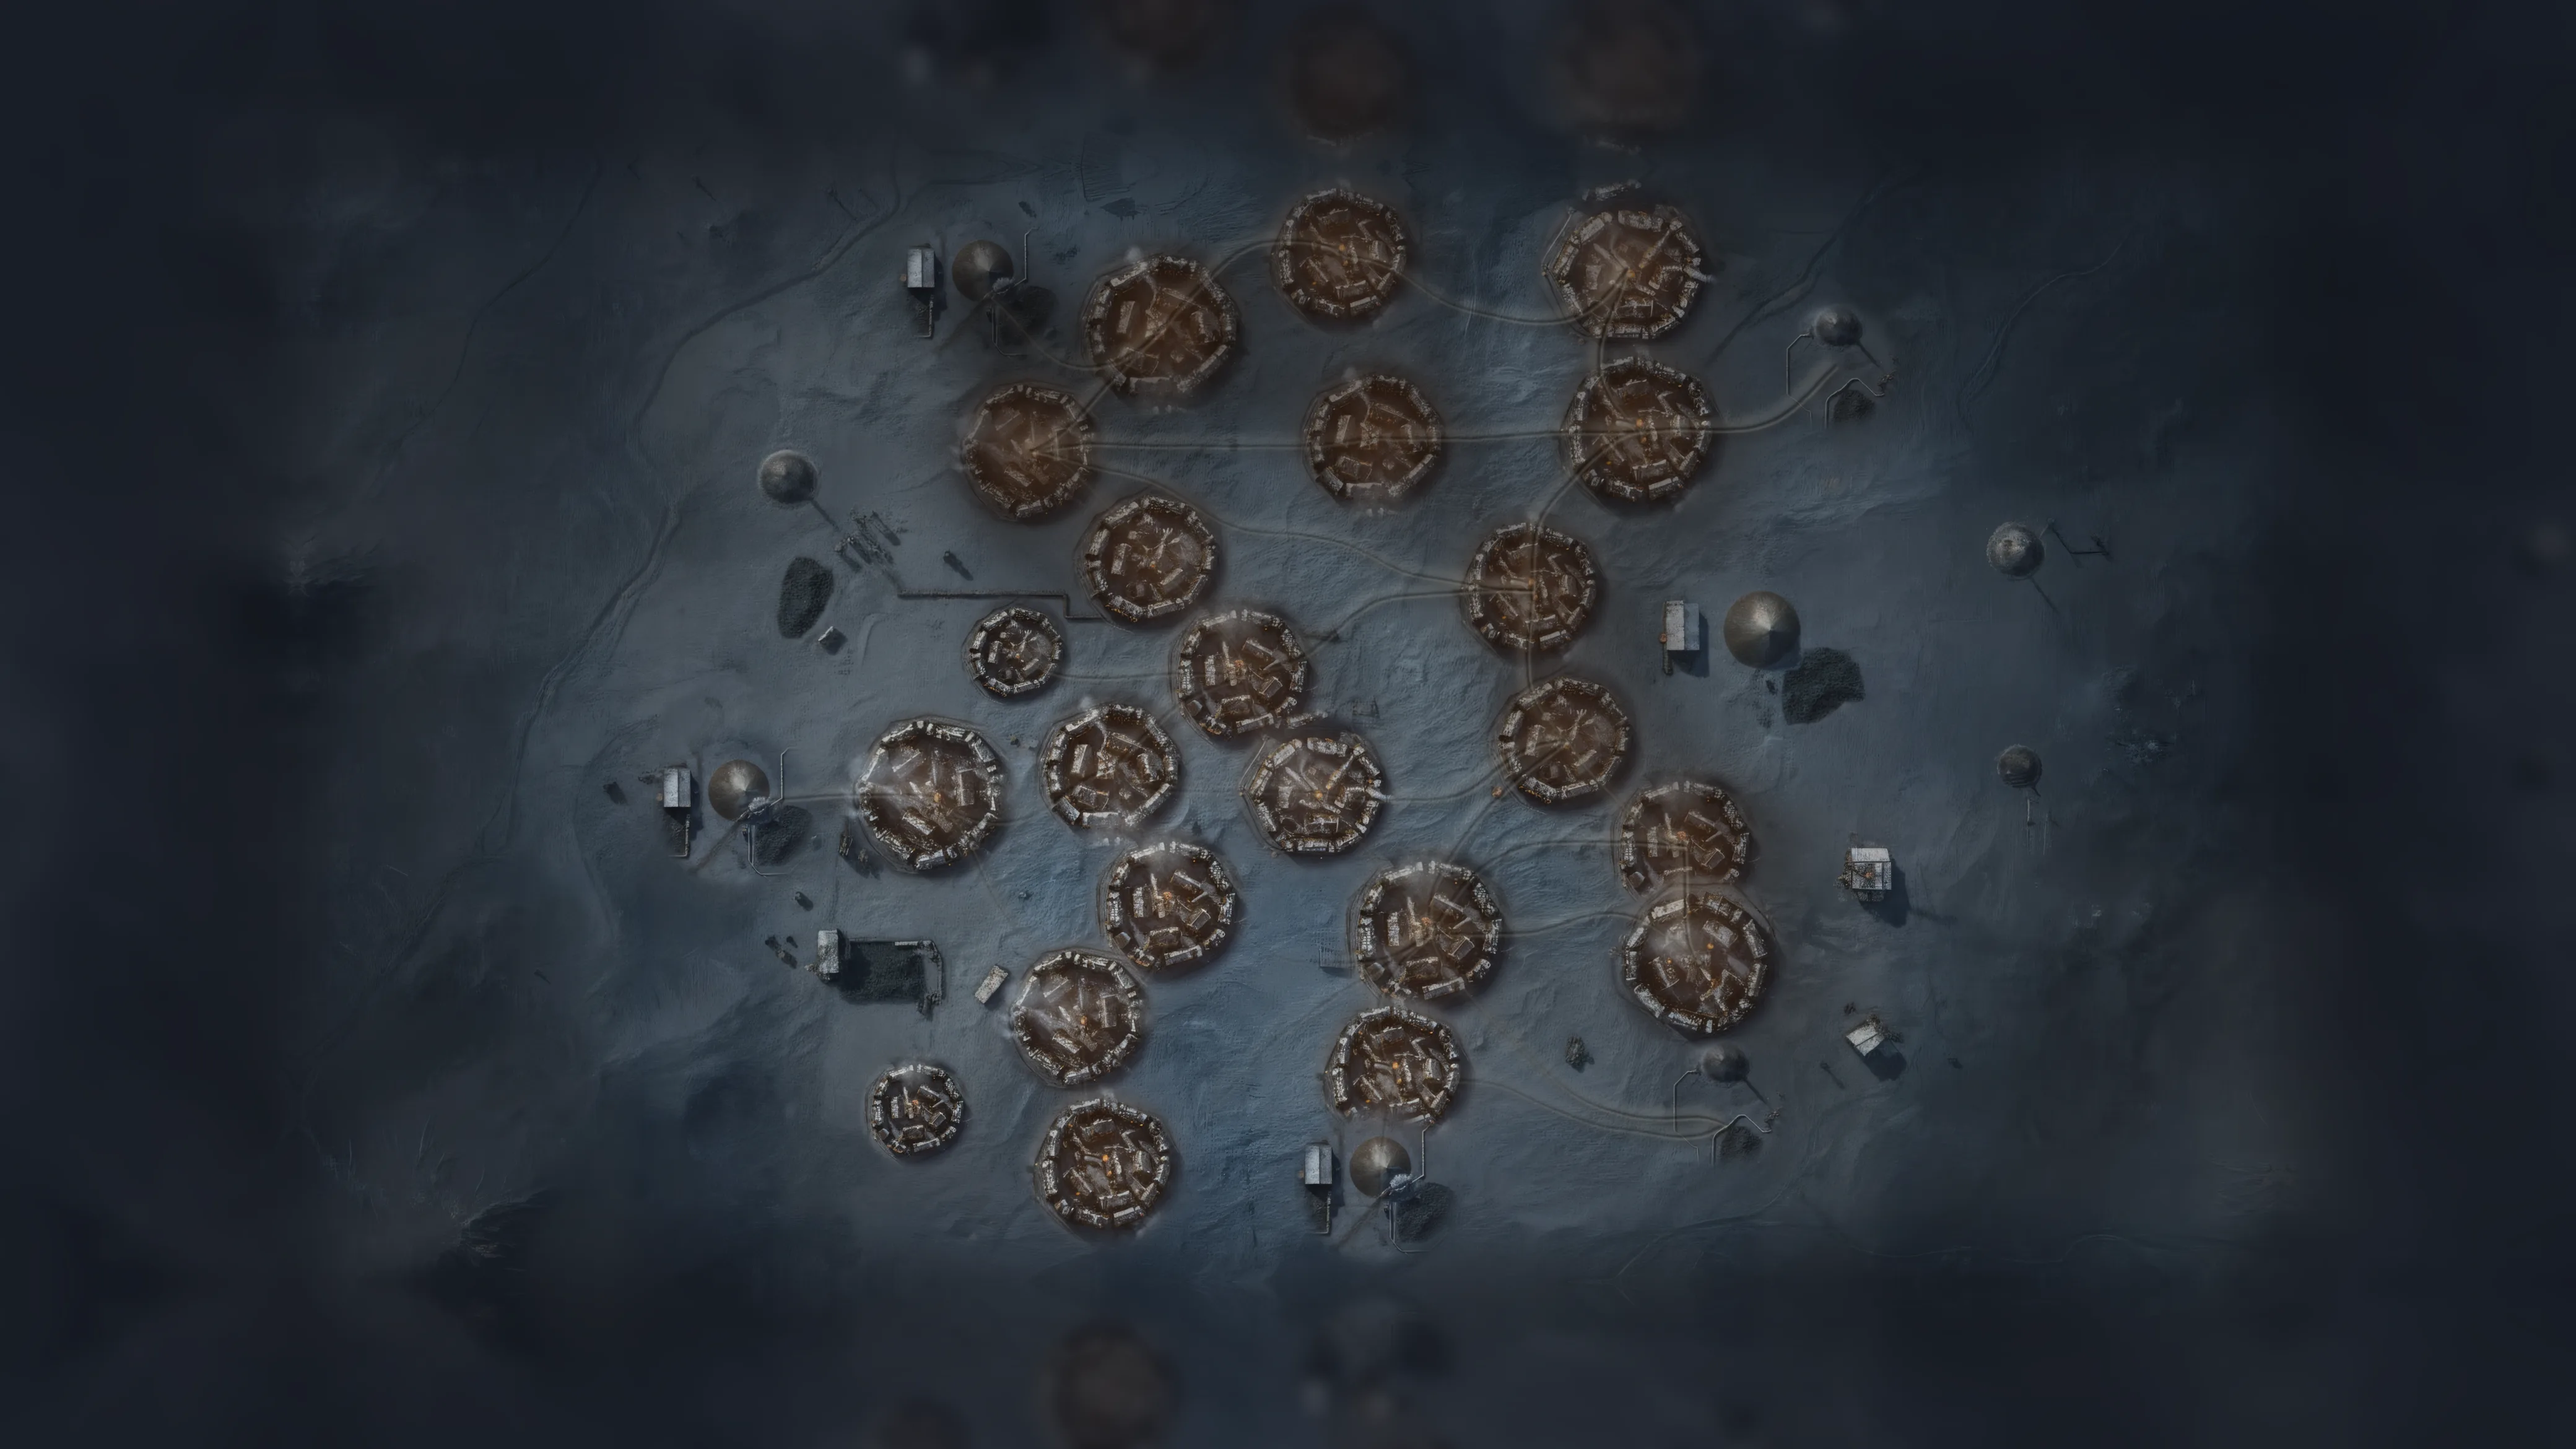
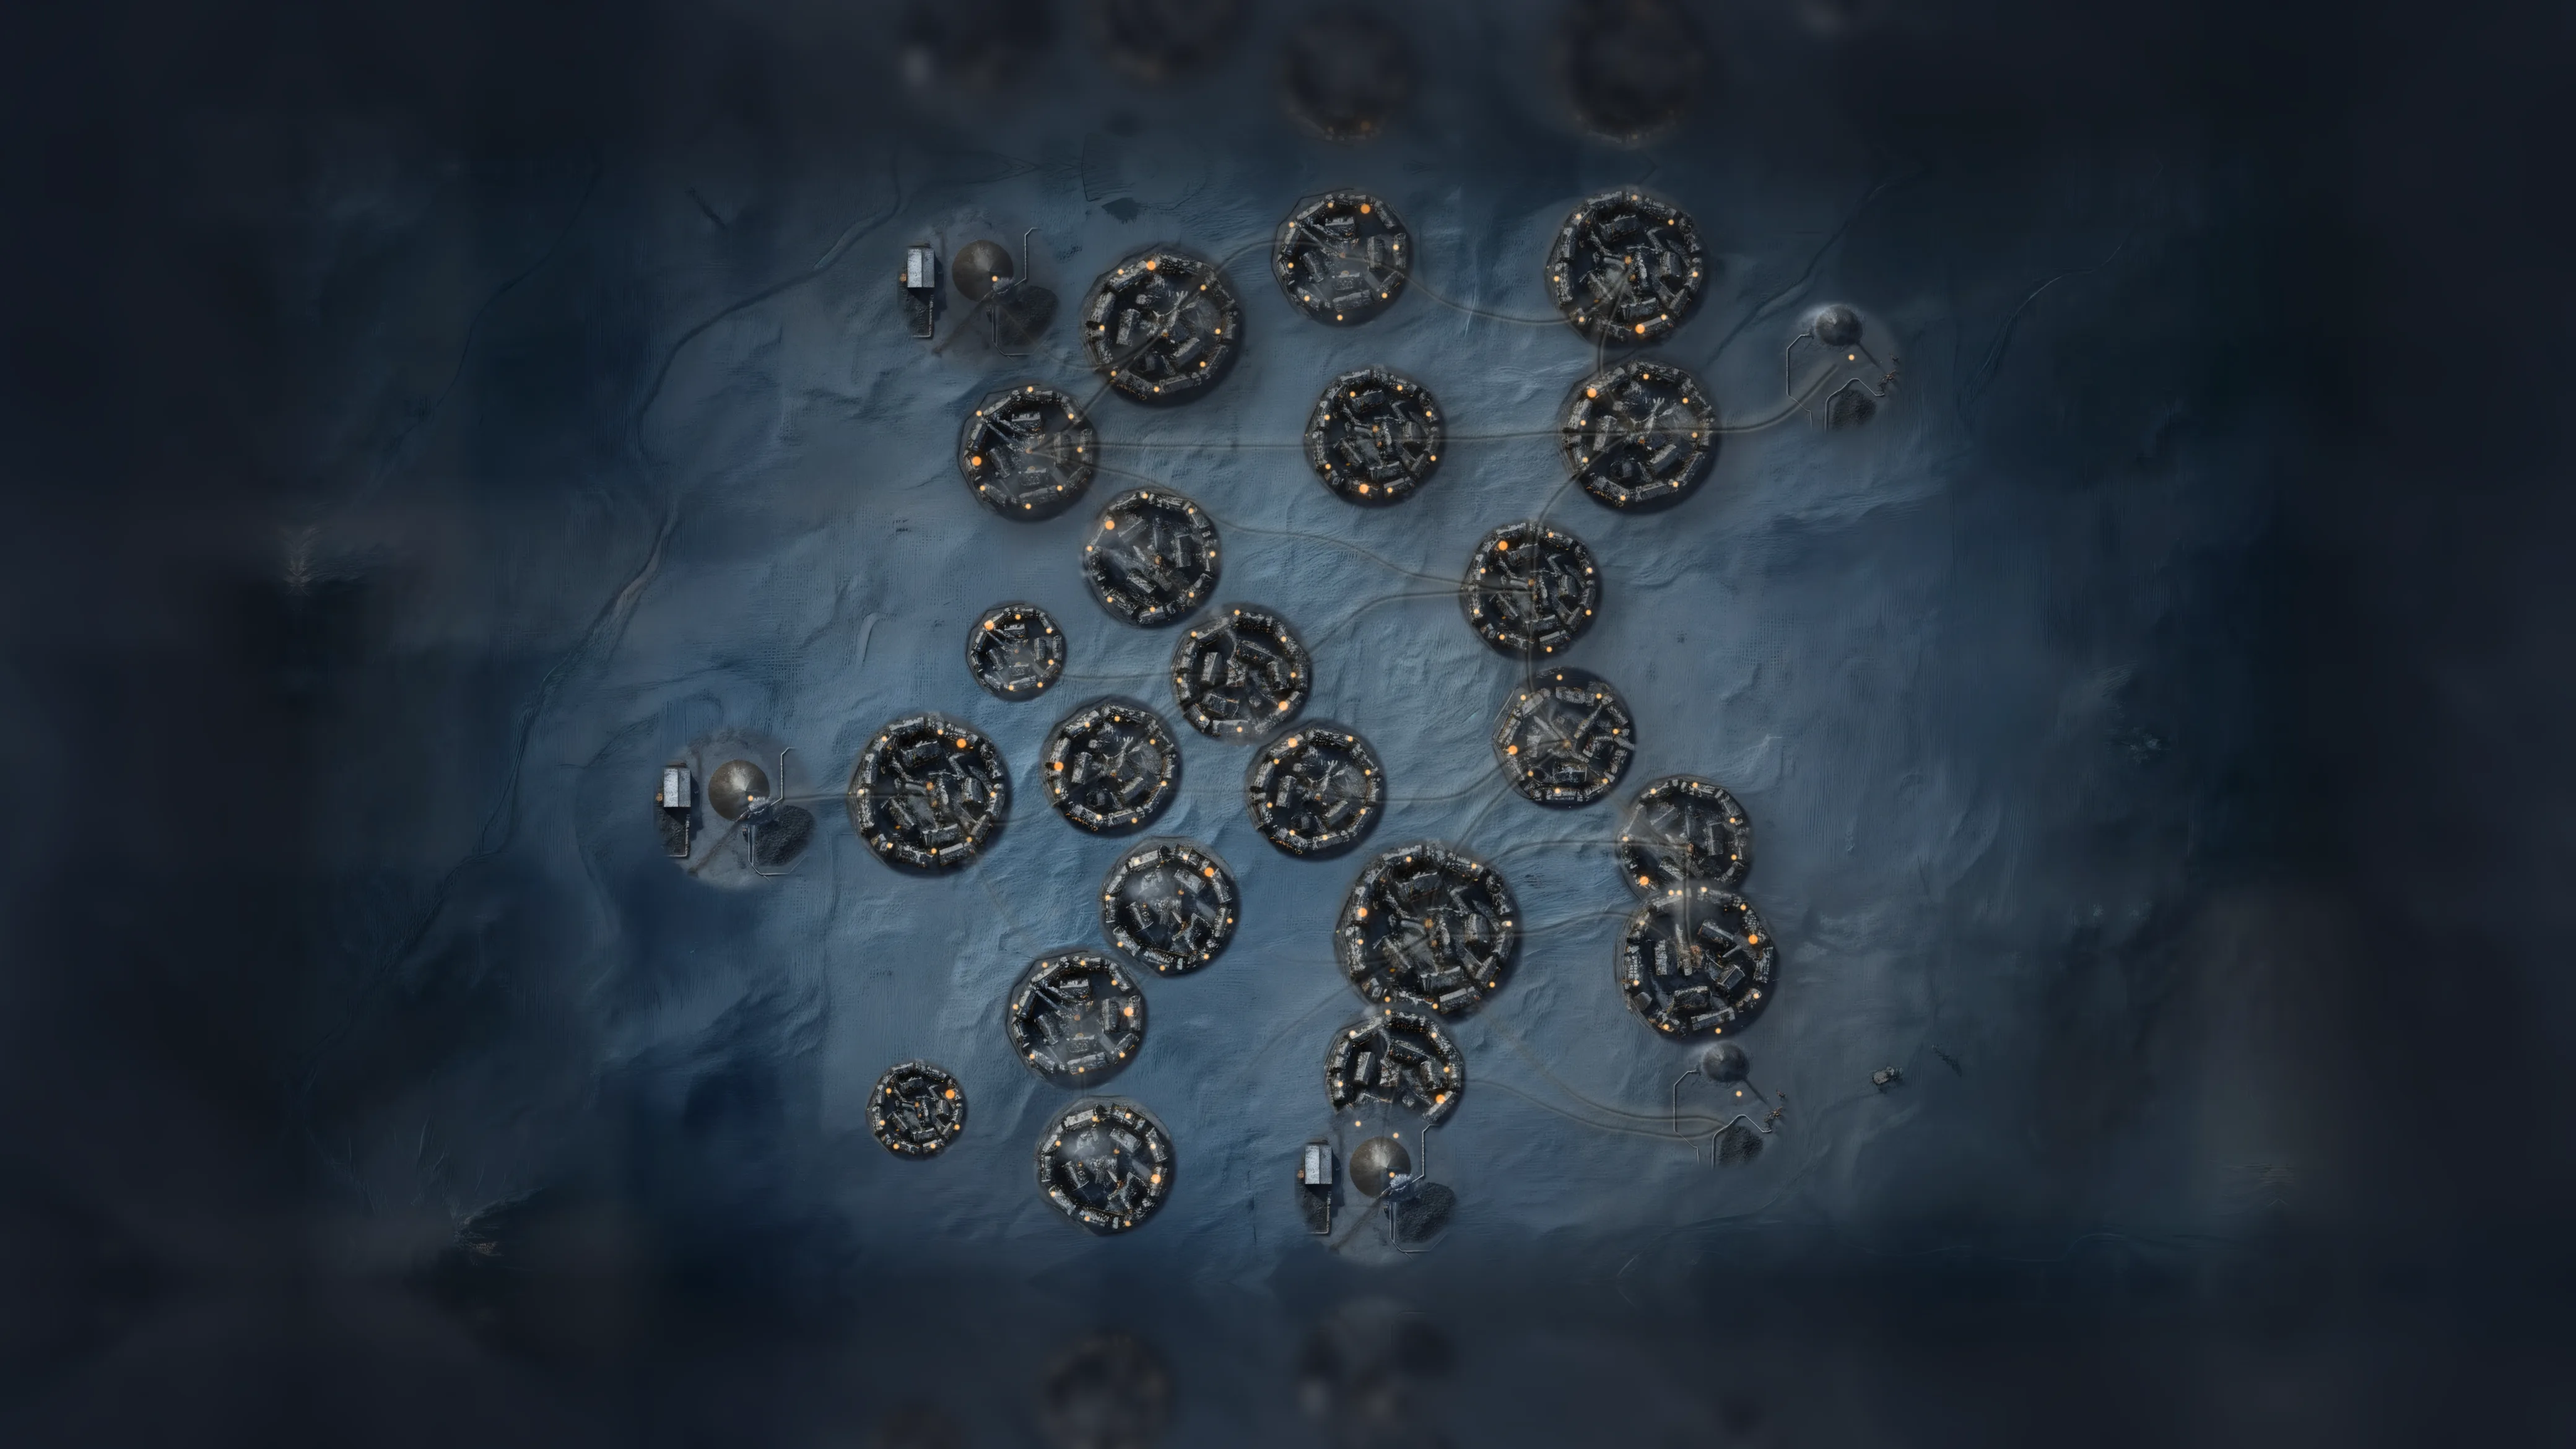
feat(assets): size the rings to their towns, light their lamps
After a design review of the frozen city: the snowfield emptied of
the sheds and pipes that read as things to play, the walls held under
the cards' own light, a ring sized to its town's cards and never the
same as a neighbour's, and the rail era lit by lamps rather than washed
brown.

diff --git a/tools/map/frost-city.py b/tools/map/frost-city.py
@@ -4,19 +4,21 @@
 A model asked for a city paints one where it likes; the board needs a
 settlement under every town and nowhere else. So the city is put together
 by hand: ring settlements cut from one painting and laid, each through a
-soft disc, on the wasteland of another — one under every town, a depot
-under every merchant, at the places the board shows them (places.ts). The
-rail era is the same sheet a generation on: the snow greyed, soot drifting
-down and right of every settlement, the furnaces lit inside the rings.
+soft disc, on an empty snowfield — one under every town, sized to its
+cards, a depot under every merchant, at the places the board shows them
+(places.ts). The walls are held under the cards' own light, and no two
+neighbouring towns wear the same ring. The rail era is the same sheet a
+generation on: soot on the walls, drifting down and right, and the lamps
+and furnace doors lit in every ring.
 
 Usage, from the repository root:
-  tools/map/frost-city.py <rings.jpg> <waste.jpg> <places.json> <canal.png> <rail.png>
-rings and waste are 4032x2304, as the upscaler leaves them; the paintings
+  tools/map/frost-city.py <rings.jpg> <snow.jpg> <places.json> <canal.png> <rail.png>
+rings and snow are 4032x2304, as the upscaler leaves them; the paintings
 come out at that size, for compose-canal.sh and compose-rail.sh.
 """
-import json, os, subprocess, sys, tempfile
+import json, math, os, subprocess, sys, tempfile
 
-RINGS, WASTE, PLACES, CANAL, RAIL = sys.argv[1:6]
+RINGS, SNOW, PLACES, CANAL, RAIL = sys.argv[1:6]
 W, H = 4032, 2304
 # the painting covers the 3200x1800 world in width; the height overflows, centred
 K = W / 3200
@@ -27,7 +29,14 @@ PY = lambda wy: wy * K + OY
 # rings painting at 1400 px wide — the ones standing clear of their neighbours
 VIEW = W / 1400
 RING_AT = [(290, 460), (1058, 152), (920, 85), (713, 80), (425, 665), (985, 668), (460, 103), (922, 202)]
+RING_R = 58
 DEPOT_AT = [(1032, 348, 78), (345, 262, 62)]
+# a ring's size for a town's cards: a farm's one card, two in a row, a
+# block of three or four — the houses showing round the cards every time
+SCALE = {1: 0.75, 2: 0.82, 3: 0.95, 4: 1.08}
+FARM = 0.58
+# towns closer than this are neighbours, and never wear the same ring
+NEAR = 320
 T = tempfile.mkdtemp()
 
 
@@ -35,19 +44,42 @@ def run(*a):
     subprocess.run(['magick', *map(str, a)], check=True)
 
 
-def cut(name, cx, cy, r_in, r_out):
-    """a sprite through a soft disc: whole to r_in, gone at r_out"""
+def cut(name, cx, cy, r_in, r_out, tone):
+    """a sprite through a soft disc: whole to r_in, gone at r_out; the
+    walls' highlights pressed down so no roof outshines a card"""
     R = int(r_out * VIEW) + 4
     ri, ro = r_in * VIEW, r_out * VIEW
     run(RINGS, '-crop', f'{2 * R}x{2 * R}+{int(cx * VIEW) - R}+{int(cy * VIEW) - R}', '+repage',
+        *(['-channel', 'RGB', '-function', 'polynomial', '-0.25,1.05,0', '+channel'] if tone else []),
         '(', '-size', f'{2 * R}x{2 * R}', 'xc:black', '-fill', 'white', '-draw', f'circle {R},{R} {R + (ri + ro) / 2:.1f},{R}', '-blur', f'0x{(ro - ri) / 4:.1f}', ')',
         '-alpha', 'off', '-compose', 'CopyOpacity', '-composite', f'{T}/{name}.png')
     return 2 * R
 
 
-ring_w = [cut(f'ring{i}', x, y, 58, 74) for i, (x, y) in enumerate(RING_AT)]
-depot_w = [cut(f'depot{i}', x, y, r - 22, r) for i, (x, y, r) in enumerate(DEPOT_AT)]
+ring_w = [cut(f'ring{i}', x, y, RING_R + 1, RING_R + 7, True) for i, (x, y) in enumerate(RING_AT)]
+depot_w = [cut(f'depot{i}', x, y, r - 14, r, False) for i, (x, y, r) in enumerate(DEPOT_AT)]
 p = json.load(open(PLACES))
+towns = p['towns']
+
+
+def h(s):
+    v = 7
+    for ch in s:
+        v = (v * 31 + ord(ch)) & 0xffffffff
+    return v
+
+
+# each town's ring: its own by hash, the next one along when a neighbour
+# already wears it
+worn = {}
+for t in sorted(towns, key=lambda t: t['id']):
+    near = [o['id'] for o in towns if o is not t and math.hypot(o['x'] - t['x'], o['y'] - t['y']) < NEAR]
+    n = h(t['id']) % len(RING_AT)
+    for _ in range(len(RING_AT)):
+        if all(worn.get(o) != n for o in near):
+            break
+        n = (n + 1) % len(RING_AT)
+    worn[t['id']] = n
 
 
 def lay(cmd, sprite, width, k, wx, wy):
@@ -55,35 +87,55 @@ def lay(cmd, sprite, width, k, wx, wy):
     cmd += ['(', f'{T}/{sprite}.png', '-resize', f'{k * 100:.0f}%', ')', '-geometry', f'+{PX(wx) - w / 2:.0f}+{PY(wy) - w / 2:.0f}', '-compose', 'over', '-composite']
 
 
-cmd = [WASTE, '-gravity', 'NorthWest']
+def scale(t):
+    return FARM if t['farm'] else SCALE[min(4, max(1, t['slots']))]
+
+
+cmd = [SNOW, '-gravity', 'NorthWest']
 # the farms first, then the towns from the top of the sheet down
-for i, t in enumerate(sorted(p['towns'], key=lambda t: (not t['farm'], t['y']))):
-    k = 0.58 if t['farm'] else (0.92 if t['slots'] >= 3 else 0.82)
-    n = (sum(map(ord, t['id'])) + i) % len(RING_AT)
-    lay(cmd, f'ring{n}', ring_w[n], k, t['x'], t['y'])
+for t in sorted(towns, key=lambda t: (not t['farm'], t['y'])):
+    n = worn[t['id']]
+    lay(cmd, f'ring{n}', ring_w[n], scale(t), t['x'], t['y'])
 for i, m in enumerate(p['merchants']):
     n = i % len(DEPOT_AT)
     lay(cmd, f'depot{n}', depot_w[n], 0.8, m['x'], m['y'])
 run(*cmd, CANAL)
 
-# the rail era: soot down and right of every place, the furnaces lit in the rings
-soot, glow = [], []
-for t in p['towns']:
+# the rail era: soot on the walls of every ring, drifting down and right,
+# and the lamps lit — a furnace door at the inner edge of the houses and a
+# few windows round it, never under the cards
+soot, lamps, doors = [], [], []
+for t in towns:
     x, y = PX(t['x']), PY(t['y'])
-    r, g = (120, 70) if t['farm'] else (210, 125)
-    soot.append(f'circle {x + 50:.0f},{y + 50:.0f} {x + 50 + r:.0f},{y + 50:.0f}')
-    glow.append(f'circle {x:.0f},{y:.0f} {x + g:.0f},{y:.0f}')
+    R = RING_R * VIEW * scale(t)
+    soot.append(f'circle {x + 0.25 * R:.0f},{y + 0.25 * R:.0f} {x + 0.25 * R + R * 1.15:.0f},{y + 0.25 * R:.0f}')
+    seed = h(t['id'] + ' lamps')
+    a0 = (seed % 360) * math.pi / 180
+    doors.append(f'circle {x + math.cos(a0) * 0.78 * R:.0f},{y + math.sin(a0) * 0.78 * R:.0f} {x + math.cos(a0) * 0.78 * R + 9:.0f},{y + math.sin(a0) * 0.78 * R:.0f}')
+    for k in range(5 if t['farm'] else 7):
+        a = a0 + (k + 1) * 0.8 + ((seed >> (k + 2)) % 7) * 0.05
+        r = R * (0.72 + ((seed >> k) % 5) * 0.05)
+        lamps.append(f'circle {x + math.cos(a) * r:.0f},{y + math.sin(a) * r:.0f} {x + math.cos(a) * r + 5:.0f},{y + math.sin(a) * r:.0f}')
 for m in p['merchants']:
     x, y = PX(m['x']), PY(m['y'])
     soot.append(f'circle {x + 40:.0f},{y + 40:.0f} {x + 170:.0f},{y + 40:.0f}')
+    lamps.append(f'circle {x + 30:.0f},{y - 20:.0f} {x + 35:.0f},{y - 20:.0f}')
+hole = []
+for t in towns:
+    x, y = PX(t['x']), PY(t['y'])
+    R = RING_R * VIEW * scale(t)
+    hole.append(f'circle {x:.0f},{y:.0f} {x + 0.55 * R:.0f},{y:.0f}')
 size = f'{W}x{H}'
-run('-size', size, 'xc:black', '-fill', 'white', '-stroke', 'none', '-draw', '\n'.join(soot), '-blur', '0x80', '-level', '0%,70%', f'{T}/soot-mask.png')
+# the soot: on the walls, not the yards nor the open snow
+run('-size', size, 'xc:black', '-fill', 'white', '-stroke', 'none', '-draw', '\n'.join(soot), '-fill', 'black', '-draw', '\n'.join(hole), '-blur', '0x40', '-level', '0%,80%', f'{T}/soot-mask.png')
 run('-seed', 7, '-size', f'{W // 8}x{H // 8}', 'plasma:fractal', '-colorspace', 'gray', '-auto-level', '-resize', f'{size}!', '-motion-blur', '0x90+45', '-auto-level', '-level', '25%,85%', f'{T}/soot-noise.png')
-run(f'{T}/soot-mask.png', f'{T}/soot-noise.png', '-compose', 'multiply', '-composite', '-evaluate', 'multiply', 0.62, f'{T}/soot-a.png')
-run('-size', size, 'xc:rgb(16,14,14)', f'{T}/soot-a.png', '-alpha', 'off', '-compose', 'CopyOpacity', '-composite', f'{T}/soot.png')
-run('-size', size, 'xc:black', '-fill', 'rgb(255,128,40)', '-stroke', 'none', '-draw', '\n'.join(glow), '-blur', '0x55', '-evaluate', 'multiply', 0.42, f'{T}/glow.png')
-run(CANAL, '-modulate', '92,78', '-fill', 'rgb(70,62,58)', '-colorize', 10, f'{T}/soot.png', '-compose', 'over', '-composite', f'{T}/glow.png', '-compose', 'screen', '-composite', RAIL)
+run(f'{T}/soot-mask.png', f'{T}/soot-noise.png', '-compose', 'multiply', '-composite', '-evaluate', 'multiply', 0.55, f'{T}/soot-a.png')
+run('-size', size, 'xc:rgb(26,27,30)', f'{T}/soot-a.png', '-alpha', 'off', '-compose', 'CopyOpacity', '-composite', f'{T}/soot.png')
+# the lamps: a warm point each, a little bloom round it
+run('-size', size, 'xc:black', '-stroke', 'none', '-fill', 'rgb(255,150,60)', '-draw', '\n'.join(doors), '-fill', 'rgb(255,190,110)', '-draw', '\n'.join(lamps), f'{T}/lamps-raw.png')
+run(f'{T}/lamps-raw.png', '(', '+clone', '-blur', '0x14', '-evaluate', 'multiply', 0.9, ')', '-compose', 'screen', '-composite', '-blur', '0x1.2', f'{T}/lamps.png')
+run(CANAL, '-modulate', '96,86', f'{T}/soot.png', '-compose', 'over', '-composite', f'{T}/lamps.png', '-compose', 'screen', '-composite', RAIL)
 for f in os.listdir(T):
     os.remove(f'{T}/{f}')
 os.rmdir(T)
-print(f'{CANAL}, {RAIL}: {len(p["towns"])} settlements, {len(p["merchants"])} depots')
+print(f'{CANAL}, {RAIL}: {len(towns)} settlements, {len(p["merchants"])} depots, rings worn {sorted(worn.values())}')

diff --git a/tools/map/README.md b/tools/map/README.md
@@ -333,12 +333,25 @@ authentic anchors of `geo.ts`). A farm gets a ring at three fifths.
 The rail era is the same sheet a generation on, made by the same script
 and no model: asked to age it, the model kept every ring in place but
 laid great white plumes over the snow, and the board breathes its own.
-The snow is greyed, soot drifts down and right of every place, and the
-furnaces are lit inside the rings — a warm glow the tiles then stand in.
+Soot settles on the walls and drifts down and right of every place, and
+the lamps come on in every ring — a furnace door and a few windows at
+the inner edge of the houses, never under the cards.
+
+A design review of the first assembly asked for five things, all done:
+the autumn villages and the wharves off this ground (`villages: 'none'`
+on the trial, `setVillages('none')` in `paint.ts`: a ground that paints
+its own places stands bare under the cards); the walls held under the
+cards' own light (the ring sprites' highlights pressed down, the discs
+cut tighter); the snowfield emptied of the sheds, tanks and pipes the
+wasteland kept, which read as things to play (`map-frostcity-snow-fal.jpg`,
+the same painting asked to remove every man-made thing); a ring sized to
+its town's cards, from three quarters for one card to a little over one
+for a block of four; and no two neighbouring towns wearing the same ring.
+The rail era's brown wash went for the lamps above.
 
     node places.mjs places.json
     tools/map/frost-city.py tools/assets/map/map-frostcity-rings-fal.jpg \
-      tools/assets/map/map-frostcity-waste-fal.jpg places.json canal.png rail.png
+      tools/assets/map/map-frostcity-snow-fal.jpg places.json canal.png rail.png
     magick rail.png -resize '3200x1800^' -gravity center -extent 3200x1800 rail-world.png
     ETCH=1 RELIEF=0 INK=ice DIM=70 FADE=60 MIST='rgb(24,30,44)' \
       tools/assets/map/compose-canal.sh canal.png geo.json map-frostcity-canal
